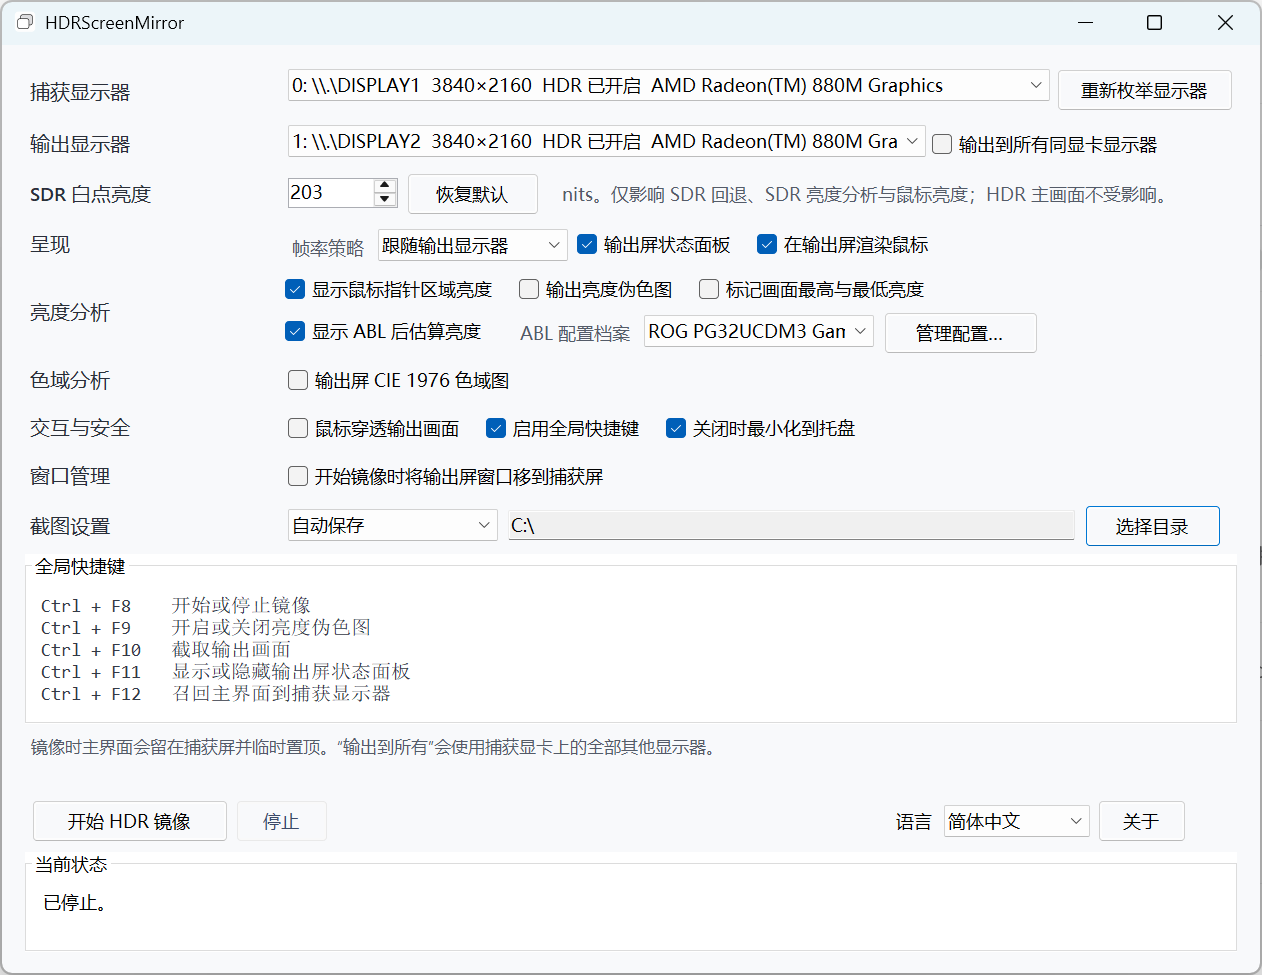
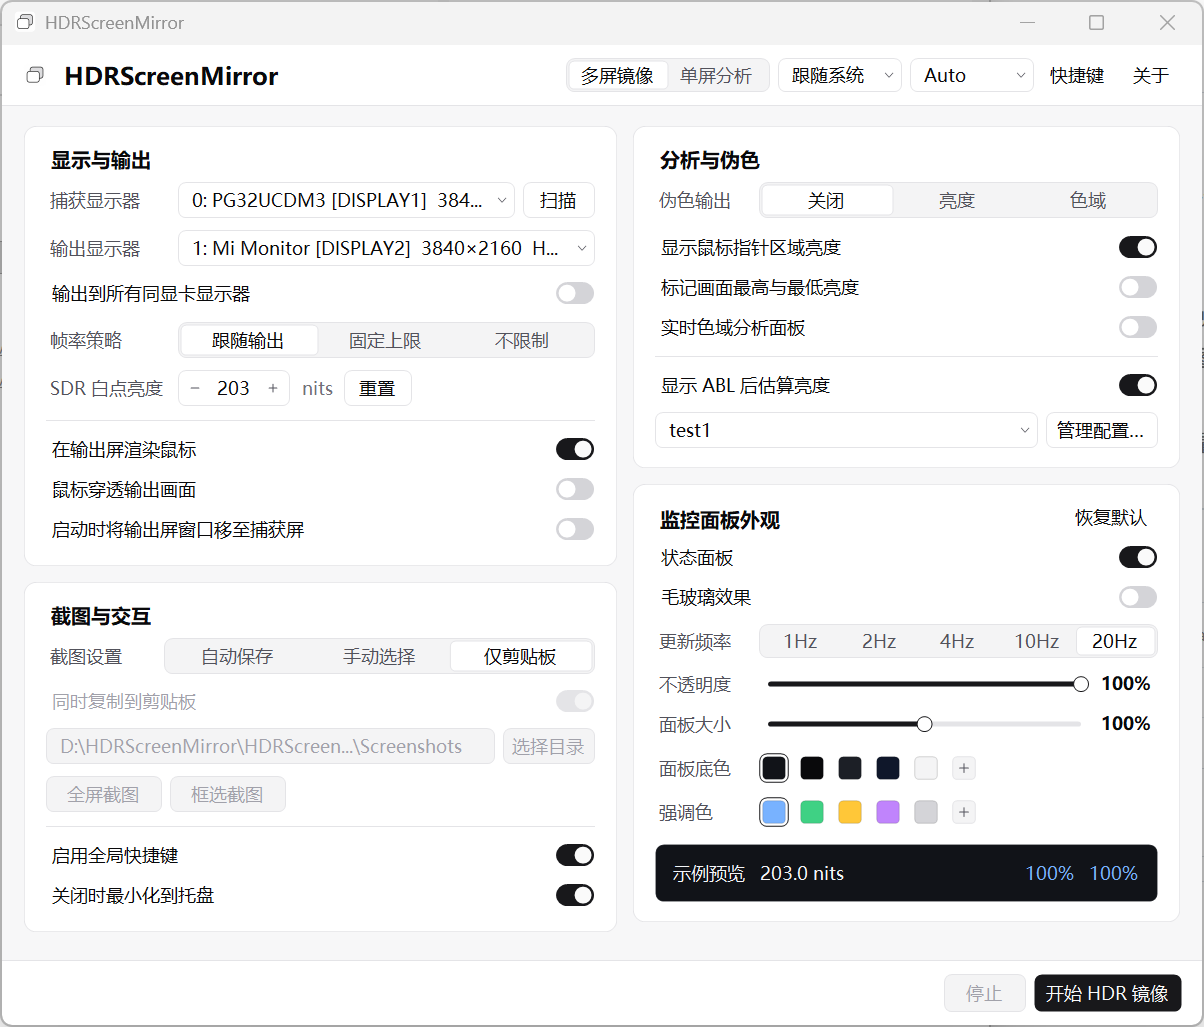
docs: update main window screenshot and README for v2.0.0

diff --git a/README.en.md b/README.en.md
@@ -42,12 +42,13 @@ It now includes a complete suite of HDR analysis tools.
 6. Optional cursor rendering on output displays.
 7. An optional live status panel in the top left corner of a mirror output or the analyzed capture display.
 8. Global hotkeys.
-9. HDR luminance analysis tools.
-10. HDR gamut analysis tools.
+9. HDR luminance analysis tools (luminance false color and maximum/minimum crosshair markers).
+10. HDR gamut analysis tools (independent frosted-glass CIE 1976 gamut panel and gamut false color).
 11. Three frame rate policies: follow the output display, fixed limit, and unlimited.
 12. Automatic session recovery and layout adaptation after Windows resolution or display mode changes.
 13. OLED ABL luminance estimation from user supplied window luminance measurements, including estimated average, maximum, and minimum frame luminance after ABL.
-14. SDR PNG capture of the rendered HDR mirror output, including visible analysis panels, luminance markers, and the rendered output cursor.
+14. Live overlay customization (frosted glass, 1–20 Hz refresh rate, opacity, 50%–150% scale, surface and accent colors) and System/Light/Dark UI themes.
+15. Full-output and interactive region SDR PNG capture with clipboard support, preserving visible overlays, luminance markers, and the rendered output cursor.
 
 ## Requirements
 
@@ -102,21 +103,23 @@ For example, if three displays are connected to one GPU, HDRScreenMirror can cap
 
 | Option | Default | Purpose |
 | --- | --- | --- |
-| Mode | HDR multi-display mirroring | Manually switches between HDR multi display mirroring and HDR single display analysis; analysis does not require an output display |
+| Mode | Multi-display | Switches between HDR multi display mirroring and HDR single display analysis from the top bar |
+| Theme / Language | System / Auto | Live System, Light, and Dark UI theme switching plus Chinese/English localization |
 | SDR white level | 203 nits | Controls SDR fallback and cursor brightness in the HDR output without changing the FP16 HDR image |
-| Frame rate | Follow output display | Offers follow output display, fixed limit, and unlimited modes; the fixed limit supports 24 to 500 fps |
-| Status panel | Enabled | Shows resolution, format, frame rate, cursor state, and frame luminance data in the top left corner of a mirror output or the analyzed capture display |
+| Frame rate | Follow | Offers follow output display, fixed limit, and unlimited modes; the fixed limit supports 24 to 500 fps |
+| Status panel | Enabled | Shows signal format, frame rate, and frame luminance data in the top left corner of the output or analyzed display |
+| Overlay appearance | Frosted glass / 4Hz / 100% | Live customization of frosted glass, 1–20 Hz refresh rate, opacity, 50%–150% panel scale, surface color, and accent color |
 | Render cursor on output | Enabled | Composites the capture display cursor into the mirror image |
-| Show cursor area luminance | Enabled | Shows the average luminance of the area under the cursor to three decimal places; reports when the cursor is outside the capture area |
-| Output luminance false color | Disabled | Switches every output display to the same luminance false color view and shows its scale in the status panel |
-| Mark highest and lowest luminance | Disabled | Marks the highest and lowest average luminance locations on the output image and shows their values |
-| Show ABL estimated luminance | Disabled | Estimates average, maximum, and minimum frame luminance after OLED ABL using the selected profile, and shows equivalent APL, overall scale, and luminance reduction |
-| Real-time gamut analysis panel | Disabled | Shows the current frame CIE 1976 `u′v′` heatmap, three reference gamut triangles, and mutually exclusive gamut percentages in the bottom left corner |
+| Show cursor area luminance | Enabled | Shows the average luminance under the cursor to three decimal places |
+| False color | Off | Switches between Off, Luminance false color, and Gamut false color (monochrome sRGB with DCI-P3, BT.2020, and > BT.2020 highlights) in multi display mirroring |
+| Mark highest and lowest luminance | Disabled | Marks the highest and lowest average luminance locations with crosshairs and numeric readouts |
+| Show ABL estimated luminance | Disabled | Estimates average, maximum, and minimum frame luminance after OLED ABL using the selected profile, along with equivalent APL, scale, and drop |
+| Real-time gamut analysis panel | Disabled | Shows an independent CIE 1976 `u′v′` heatmap panel with reference gamut triangles and mutually exclusive gamut percentages |
 | Click through mirror | Disabled | Multi display mirroring only; lets mouse clicks reach the desktop behind the mirror window |
-| Enable global hotkeys | Enabled | Registers shortcuts for start or stop, false color, screenshots, the status panel, and control panel recall |
+| Enable global hotkeys | Enabled | Registers shortcuts for toggle, false color, full/region capture, status panel, and recall (viewable from “Shortcuts” in the top bar) |
 | Minimize to tray on close | Disabled | Hides the control panel while keeping an active mirror session running |
-| Move output windows to capture display on start | Disabled | Prevents windows from becoming inaccessible behind the mirror; minimized, system, and elevated windows may not move |
-| Screenshot save mode | Save automatically | Can save directly or ask for a location on every capture |
+| Move output windows to capture display | Disabled | Prevents windows from becoming inaccessible behind the mirror; minimized, system, and elevated windows may not move |
+| Screenshots | Auto save / Copy to clipboard | Supports Auto save, Ask path, and Clipboard modes, plus full and interactive region capture |
 | Screenshot folder | `Screenshots` beside the application | Used by automatic saving and can be changed with “Choose folder” |
 
 ### Frame rate policies

diff --git a/README.md b/README.md
@@ -42,12 +42,13 @@ HDRScreenMirror 就可以从一块显示器实时捕获桌面，再通过 Direct
 6. 可选择是否在输出显示器上渲染鼠标指针。
 7. 可在镜像输出屏或单屏分析捕获屏左上角显示实时状态面板。
 8. 提供快捷键。
-9. HDR 亮度分析工具。
-10. HDR 色域分析工具。
+9. HDR 亮度分析工具（含亮度伪色图与最高/最低亮度十字标记）。
+10. HDR 色域分析工具（含独立毛玻璃 CIE 1976 色域面板与色域伪色图）。
 11. 提供跟随输出显示器、固定上限和不限制三种帧率策略。
 12. Windows 显示分辨率或显示模式变化后自动重新适配并恢复当前会话。
 13. 支持根据 OLED 窗口亮度曲线估算 ABL 后的画面平均、最高与最低亮度。
-14. 可将渲染完成的 HDR 镜像画面转换并保存为普通 SDR PNG，同时保留可见的分析面板、亮度标记和输出鼠标。
+14. 支持监控面板外观实时自定义（毛玻璃效果、更新频率、不透明度、面板大小、底色与强调色）以及主界面深浅色/跟随系统主题切换。
+15. 可将渲染完成的 HDR 镜像画面全屏或局部框选截取，保存为 SDR PNG 或直接复制到剪贴板，同时保留可见的分析面板、亮度标记和输出鼠标。
 
 ## 系统要求
 
@@ -102,21 +103,23 @@ HDRScreenMirror 就可以从一块显示器实时捕获桌面，再通过 Direct
 
 | 选项 | 默认值 | 作用 |
 | --- | --- | --- |
-| 模式 | HDR 多屏镜像 | 可手动切换 HDR 多屏镜像和 HDR 单屏分析；单屏分析不需要输出显示器 |
+| 模式 | 多屏镜像 | 顶栏可一键切换多屏镜像和单屏分析；单屏分析不需要输出显示器 |
+| 主题 / 语言 | 跟随系统 / Auto | 支持主界面深色、浅色与跟随系统实时切换，以及中英文界面切换 |
 | SDR 白点亮度 | 203 nits | 控制 SDR 回退画面和鼠标指针在 HDR 输出中的亮度，不改变 FP16 HDR 主画面 |
-| 帧率策略 | 跟随输出显示器 | 可选择跟随输出显示器、固定上限或不限制；固定上限支持 24 至 500 fps |
-| 状态面板 | 开启 | 在镜像输出屏或单屏分析捕获屏左上角显示分辨率、格式、帧率、鼠标状态和画面亮度数据 |
+| 帧率策略 | 跟随输出 | 可选择跟随输出、固定上限或不限制；固定上限支持 24 至 500 fps |
+| 状态面板 | 开启 | 在镜像输出屏或单屏分析捕获屏左上角显示信号格式、帧率和画面亮度数据 |
+| 监控面板外观 | 毛玻璃开启 / 4Hz / 100% | 支持实时调整毛玻璃效果、1–20 Hz 更新频率、不透明度、50%–150% 面板大小、底色与强调色 |
 | 在输出屏渲染鼠标 | 开启 | 将捕获屏的鼠标指针合成到镜像画面 |
-| 显示鼠标指针区域亮度 | 开启 | 在状态面板以三位小数显示鼠标指针所在区域的平均亮度；指针离开捕获屏时显示“不在捕获区域” |
-| 输出亮度伪色图 | 关闭 | 将所有输出显示器切换为统一的亮度伪色图，并在状态面板显示色阶图例 |
-| 标记画面最高与最低亮度 | 关闭 | 在输出画面上标记平均亮度的最高和最低位置，并显示对应亮度 |
-| 显示 ABL 后估算亮度 | 关闭 | 根据当前 OLED 配置档案估算受到 ABL 影响后的画面平均、最高与最低亮度，并显示等效 APL、整体缩放和亮度下降比例 |
-| 实时色域分析面板 | 关闭 | 在左下角显示当前画面的 CIE 1976 `u′v′` 热力图、三个参考色域三角形和互斥色域比例 |
+| 显示鼠标指针区域亮度 | 开启 | 在状态面板以三位小数显示鼠标指针所在区域的平均亮度；指针离开捕获屏时显示“超出区域” |
+| 伪色输出 | 关闭 | 支持关闭、亮度伪色与色域伪色（sRGB 以内黑白化，超 sRGB 按 DCI-P3 / BT.2020 / 超 BT.2020 高亮），仅用于多屏镜像 |
+| 标记画面最高与最低亮度 | 关闭 | 在输出画面上以十字准星和数字标记最高与最低亮度位置 |
+| 显示 ABL 后估算亮度 | 关闭 | 根据当前 OLED 配置档案估算受到 ABL 影响后的画面平均、最高与最低亮度，并显示等效 APL、亮度比例与衰减 |
+| 实时色域分析面板 | 关闭 | 在左下角以独立面板显示 CIE 1976 `u′v′` 热力图、三个参考色域三角形和互斥色域比例 |
 | 鼠标穿透输出画面 | 关闭 | 多屏镜像专用；开启后，点击可以穿过镜像窗口到达后面的桌面 |
-| 启用全局快捷键 | 开启 | 注册开始或停止、伪色图、截图、状态面板和召回快捷键 |
+| 启用全局快捷键 | 开启 | 注册启停、伪色切换、全屏/框选截图、状态面板和召回快捷键（可在顶栏“快捷键”查看完整列表） |
 | 关闭时最小化到托盘 | 关闭 | 点击关闭按钮时隐藏主界面并保持镜像运行 |
-| 开始镜像时将输出屏窗口移到捕获屏 | 关闭 | 避免窗口被镜像画面覆盖后无法操作；最小化窗口、系统窗口和管理员权限窗口可能不会移动 |
-| 截图保存方式 | 自动保存 | 可选择自动保存，或每次截图时手动选择位置 |
+| 启动时将输出屏窗口移至捕获屏 | 关闭 | 避免窗口被镜像画面覆盖后无法操作；最小化窗口、系统窗口和管理员权限窗口可能不会移动 |
+| 截图设置 | 自动保存 / 同步剪贴板 | 支持自动保存、手动选择与仅剪贴板，支持全屏截图和局部框选截图 |
 | 截图目录 | 程序目录下的 `Screenshots` | 自动保存时使用，可通过“选择目录”改为其他文件夹 |
 
 ### 帧率策略
